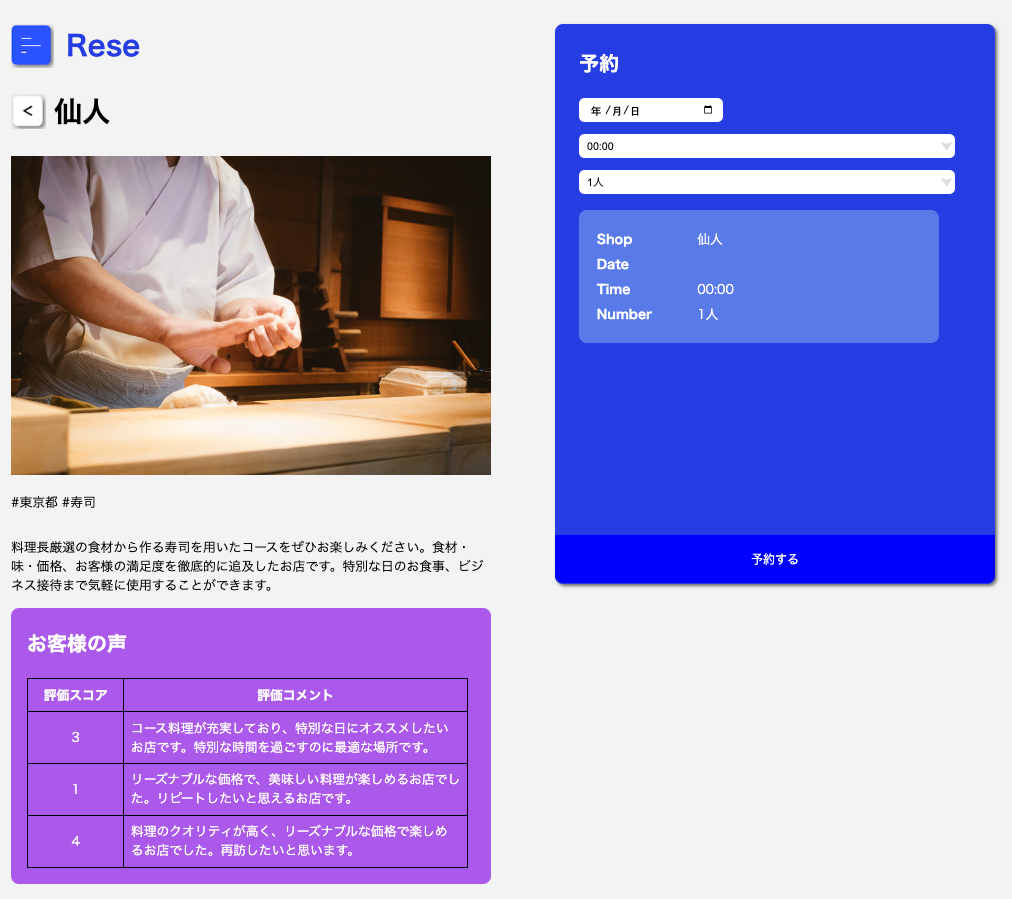
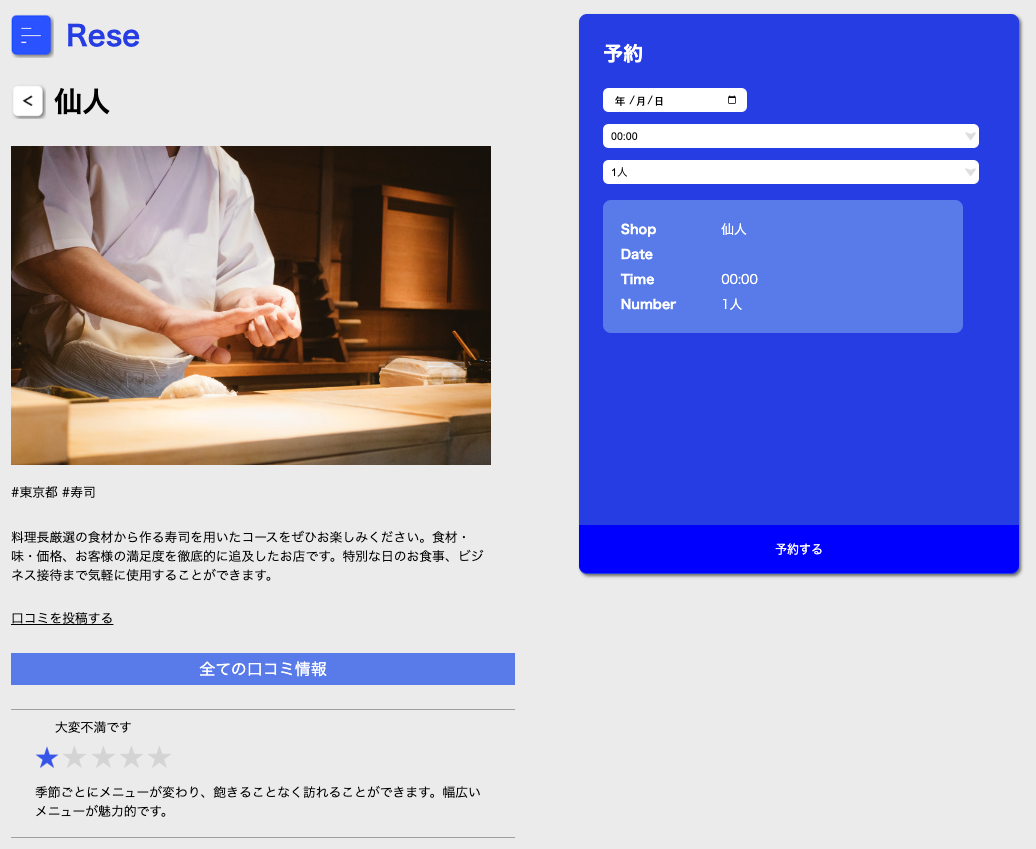
fix: CSVアップロードボタンについて、ドラッグ&ドロップではCSV以外もアップロードできエラーとなるため、押下だけのファイル選択に仕様変更した

diff --git a/resources/views/dashboard.blade.php b/resources/views/dashboard.blade.php
@@ -30,7 +30,9 @@
     <form action="{{ route('shops.import') }}" method="POST" enctype="multipart/form-data">
         @csrf
         <p class="csv__title">【店舗情報のアップロード】</p>
-        <input type="file" name="csv_file" accept=".csv" class="csv__select" id="fileInput" onchange="handleFileSelect()">
+        {{-- <input type="file" name="csv_file" accept=".csv" class="csv__select" id="fileInput" onchange="handleFileSelect()"> --}}
+        <input type="file" name="csv_file" accept=".csv" class="csv__select" id="fileInput" onchange="handleFileSelect()" ondragover="handleDragOver(event)" ondrop="handleDrop(event)">
+
         <button type="submit" class="csv__import" id="importButton" style="display: none;">CSVをインポート</button>
         {{-- <span id="fileUploadedMessage">{{ $a ?? 0 }}</span> --}}
     </form>
@@ -280,6 +282,15 @@ document.addEventListener('DOMContentLoaded', function() {
             importButton.style.display = 'none';
         }
     }
+
+function handleDragOver(event) {
+    event.preventDefault(); // デフォルトの動作をキャンセル
+}
+
+function handleDrop(event) {
+    event.preventDefault(); // デフォルトの動作をキャンセル
+}
+
 
 </script>
 

diff --git a/app/Http/Requests/ImportCsvRequest.php b/app/Http/Requests/ImportCsvRequest.php
@@ -50,6 +50,7 @@ class ImportCsvRequest extends FormRequest
                 SplFileObject::SKIP_EMPTY |       // 空行を読み飛ばす
                 SplFileObject::DROP_NEW_LINE      // 行末の改行を読み飛ばす
         );
+        
         foreach ($file as $index => $line) {
             // ヘッダーを取得
             if (empty($header)) {

diff --git a/README.md b/README.md
@@ -26,8 +26,12 @@ Reseは企業のグループ会社の飲食店予約サービスです。
 
 ## 機能一覧
 ### 会員登録機能
-名前、メールアドレス、ログイン用パスワードを入力し、登録ボタンを押すと、メールアドレス宛に認証用メールが届きます。
-そのメール内のリンクを押下することで、会員登録が完了します。（リンクをクリックしていなくても、ログイン自体は可能です。ただし、お店の予約や、マイページの閲覧はできません）
+名前、メールアドレス、ログイン用パスワードを入力し、ユーザータイプを選択の上、登録ボタンを押すと、メールアドレス宛に認証用メールが届きます。
+- ユーザータイプ
+  - 一般ユーザー：お客様用のアカウント
+  - 店舗ユーザー：店舗代表者用のアカウント
+  - 管理者ユーザー：管理者用のアカウント
+- 認証用メール内のリンクを押下することで、会員登録が完了します。（リンクをクリックしていなくても、ログイン自体は可能です。ただし、お店の予約や、マイページの閲覧はできません）
 ![](public/images/register.png)
 
 ### ログイン機能
@@ -62,11 +66,52 @@ Reseは企業のグループ会社の飲食店予約サービスです。
 
 ![](public/images/shoplist_page.png)
 
+- 一般ユーザーとしてログイン済みの場合、ページ上部に並び替えボタンが表示されます。
+  - 並び替えボタンを押下すると、並び替え方法を選べる欄が表示されます。
+    - ランダム：押下するごとに、店舗がランダムに並び替えられます。
+    - 評価が高い順：店舗の評価が高い順に並び替えられます。
+    - 評価が低い順：店舗の評価が低い順に並び替えられます。
+      - 店舗の評価は、各評価の5段階評価の平均値で計算されます。
+      - 評価がされていない店舗は、「評価が高い順」「評価が低い順」にかかわらず、最後尾に表示されます。
+
+![](public/images/shoplist_page_general1.png)
+
+![](public/images/shoplist_page_general2.png)
+
 ### 飲食店詳細表示機能
 - 飲食店詳細ページでは、各店の詳細が表示されます。
-- 評価が送られた店舗には、「お客様の声」欄に評価（5段階評価のスコア、コメント）が表示されます。
+- 評価が送られた店舗には、「全ての口コミ情報」欄に評価（5段階評価のスコア、コメント）が表示されます。
 - ログイン済みの場合、予約フォームが表示されます。日時や人数を選択し、「予約する」ボタンを押下すると、予約できます（当日予約は店舗が対応しきれない可能性があるため、翌日以降の日時しか予約できません）。
 ![](public/images/shopdetail_page.png)
+
+### 評価機能
+- 飲食店詳細ページの「口コミを投稿する」リンクを押下すると、その店舗の評価を送信できるページに遷移します。
+![](public/images/review1.png)
+- 星マークにマウスオーバーすると、色が灰色から青色に変わります。押下することで、満足度に応じて5段階評価を選択できます。
+![](public/images/review2.png)
+- 「口コミを投稿」欄に、コメントを入力できます。
+  - 入力欄の直下に、入力中の文字数が表示されます。
+  - 最高文字数は400文字です。それを超えると、エラーメッセージが表示され、「口コミを投稿」ボタンを押下できなくなります。
+
+![](public/images/review3.png)
+- 「画像の追加」欄をクリック、またはドラッグ&ドロップすることで、写真を追加することができます。
+  - jpeg, pngファイルのみアップロード可能です。それ以外のファイル形式では、エラーメッセージが表示されます。
+  - アップロード後、「画像を削除」ボタンを押下すると、アップロードした画像を削除できます。
+
+![](public/images/review_image.png)
+- 「口コミを投稿」ボタンを押下すると、評価が送信され、当該飲食店の店舗詳細ページに戻ります。「全ての口コミ情報」欄には、送信した評価が表示されます。
+  - 評価送信済みの場合、「口コミを編集」ボタン、または「口コミを投稿する」ボタンを押下すると、評価送信ページに遷移します。なお「口コミを削除」ボタンを押下すると、当該評価を削除できます。
+    - 内容を更新し、「口コミを投稿」ボタンを押下することで、評価を再送信できます。
+    - 1店舗につき、1つの評価しか送信できません。
+    - 送信済みの画像を更新することは可能ですが、単に削除することはできません。
+
+![](public/images/review4.png)
+- ユーザータイプによる仕様の違い
+  - 一般ユーザー：自身が投稿した評価のみ、編集・削除が可能です。
+  - 店舗ユーザー：評価の閲覧は可能ですが、送信・編集・削除はできません。
+  - 管理者ユーザー：全ての評価の削除が可能ですが、送信・編集はできません。
+
+
 
 ### 予約情報とQRコードの表示、予約の更新・削除機能
 - マイページでは、予約内容と、利用者が来店した際に店舗側に見せるQRコードが表示されます。
@@ -86,23 +131,30 @@ Reseは企業のグループ会社の飲食店予約サービスです。
 
 ![](public/images/stripe.png)
 
-### 評価機能
-- マイページでは、予約日時の過ぎた（来店済みの）店舗に対し、評価を送ることができます。
-  - 「評価を送る」ボタンを押下すると、評価の入力フォームが表示されます。
-  - 評価スコアを選択、評価コメントを入力し、「評価送信」ボタンを押下すると、評価が送信されます。
-  - 1つの予約につき、1つの評価が送信できます。
-    - 同じ店舗でも、予約ごとに評価を送信できます。
-    - 同じ予約に対し、評価を複数回送信すると、送信済みの評価は上書きされます。
-    - 送信した評価を取り消すことはできません。
-
-![](public/images/mypage3.png)
-
 ### お気に入り店舗表示機能
 - マイページでは、お気に入り店舗が表示されます。
 - 「詳しくみる」ボタンを押下すると、店舗詳細ページに遷移します。
 - ハートマークを押下すると、お気に入りが解除され、「お気に入り店舗」欄から削除されます。
 
 ![](public/images/mypage4.png)
+
+### 店舗情報のCSVインポート機能
+- 管理者ユーザーのトップページでは、ページ上部に「店舗情報のアップロード」欄が表示されます。
+
+![](public/images/csv1.png)
+
+- ボタンの押下、またはドラッグ&ドロップにより、店舗情報を記載したCSVファイルをアップロードすると、「CSVをインポート」ボタンが表示されます。このボタンを押下すると、店舗情報が追加されます（既存店舗の更新ではなく、新規店舗の追加です）。
+![](public/images/csv2.png)
+
+- ファイルの形式や入力の不足、誤りがあると（下記条件のいずれかでも満たしていないと）、エラーメッセージが表示されます。
+  - ファイル形式はCSV
+  - 項目は全て入力必須
+  - 店舗名：50文字以内
+  - 地域：「東京都」「大阪府」「福岡県」のいずれか
+  - ジャンル：「寿司」「焼肉」「イタリアン」「居酒屋」「ラーメン」のいずれか
+  - 店舗概要：400文字以内
+  - 画像URL：jpeg、pngのみアップロード可能
+![](public/images/csv3.png)
 
 ## 使用技術（実行環境）
 - フロントエンド
